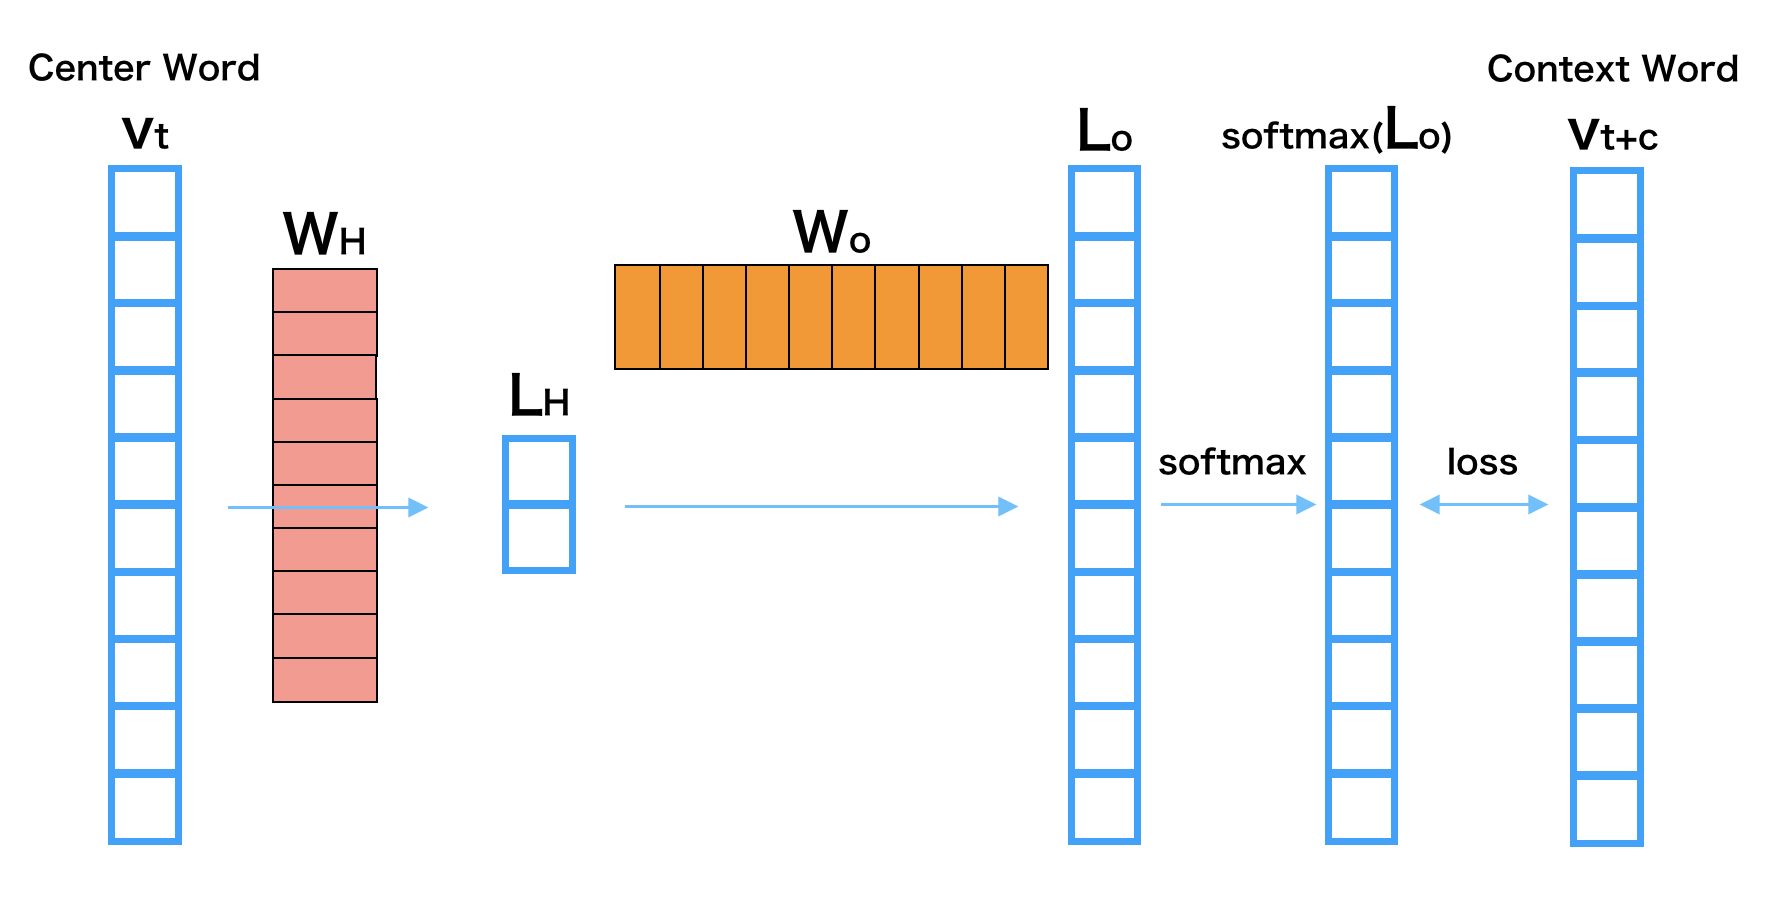
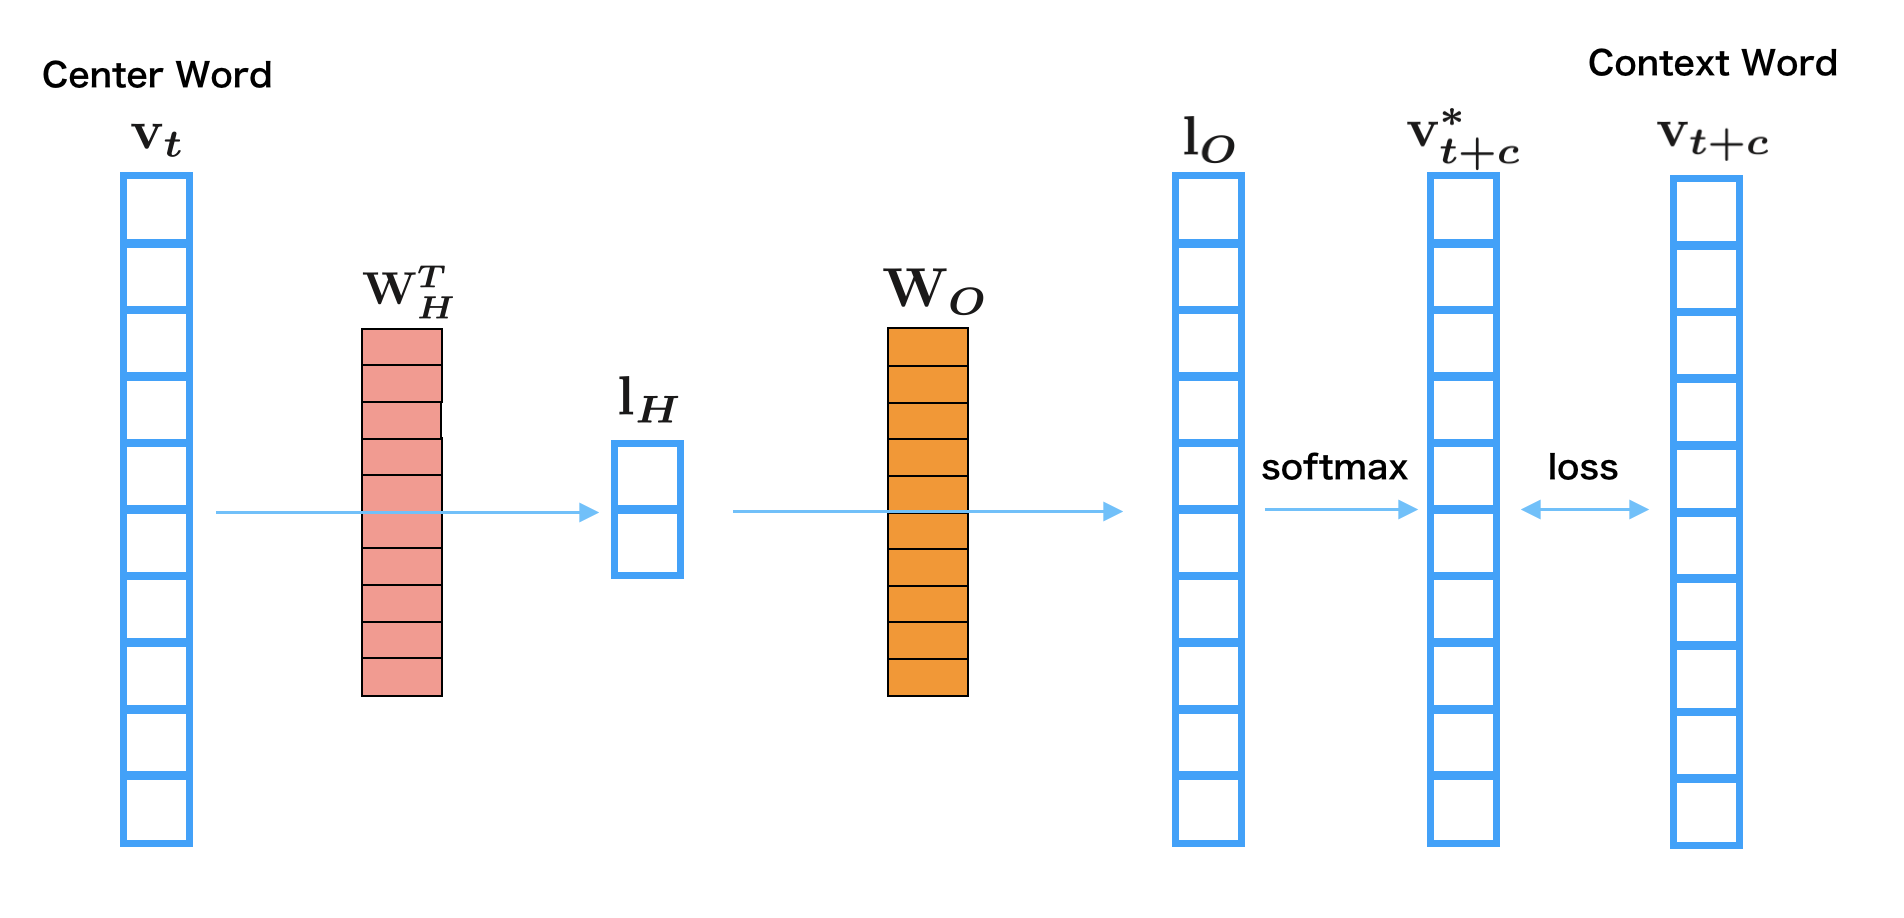
add equation

Changed region(s): [[0.0618, 0.1244, 0.927, 0.9644], [0.8343, 0.0311, 0.9888, 0.0933], [0.0, 0.0622, 0.1545, 0.0933]]

diff --git a/docs/source/tutorial/word2vec.rst b/docs/source/tutorial/word2vec.rst
@@ -46,13 +46,13 @@ built with two models, which are **Skip-gram** and **CBoW**.
 To explain the models with the figures below, we will use the following
 symbols.
 
-* :math:`N`: the size of vocabulary.
+* :math:`V`: the size of vocabulary.
 * :math:`D`: the size of embedding vector.
 * :math:`v_t`: Center Word. The shape is ``[N,]``.
 * :math:`v_{t+c}`: Context Word. The shape is ``[N,]``.
-* :math:`L_H`: Embedding vector converted from input.
+* :math:`l_H`: Embedding vector converted from input.
   The shape is ``[D,]``.
-* :math:`L_O`: Output layer. The shape is ``[N,]``.
+* :math:`l_O`: Output layer. The shape is ``[N,]``.
 * :math:`W_H`: Embedding matrix for the input.  The shape is ``[N, D]``.
 * :math:`W_O`: Embedding matrix for the output.  The shape is ``[D, N]``.
 
@@ -71,21 +71,38 @@ matrix for input :math:`W_H` becomes a word embedding of each word.
 
 .. image:: ../../image/word2vec/skipgram.png
 
+When you input the Center Word :math:`v_t` into the network,
+you can calculate :math:`v_{t+c}^*`.
+
 .. math::
-    l_H &= v_t^T W_H \\
-    l_O &= l_H^T W_O \\
-    \hat v_{t+c} &= \text{softmax}(l_O) \\
-    &= \frac{\exp(l_O)}{\sum_{n=1}^N \exp(l_O[n])} \\
-    p(w_i|v_t) &= \hat v_{t+c}[i] \\
-    p(v_{t+c}|v_t) &= \hat v_{t+c}^T v_{t+c}
+    l_H &= W_H v_t \\
+    l_O &= W_O l_H \\
+    v_{t+c}^* &= \text{softmax}(l_O) \\
+    &= \frac{\exp(l_O)}{\sum_{v=1}^V \exp(l_O[n])}
+
+Each element of :math:`v_{t+c}^*` is the probability that the :math:`i`-th word 
+:math:`w_i` in the vocabulary
+is considered as Context Words. So, the equation :math:`v_{t+c}^T v_{t+c}^*` calculates the
+probability :math:`p(v_{t+c}|v_t)`.
+
+.. math::
+    p(w_i|v_t) &= v_{t+c}^*[i] \\
+    p(v_{t+c}|v_t) &= v_{t+c}^T v_{t+c}^*
+
+The loss function for the center word and the context words
+:math:`\text{loss}(W_H, W_O|v_{t-C}, ..., v_t, ..., v_{t+C})` is,
 
 .. math::
     \text{loss}(W_H, W_O|v_{t-C}, ..., v_t, ..., v_{t+C}) &= \sum_{c=\{-C,...,C\}/\{0\}} \log(p(v_{t+c}|v_t)) \\
-    &= \sum_{c=\{-C,...,C\}/\{0\}} \log(\hat v_{t+c}^T v_{t+c})
+    &= \sum_{c=\{-C,...,C\}/\{0\}} \log(v_{t+c}^T v_{t+c}^*)
+
+Let the training dataset be
+:math:`\mathcal{D}=\{v_{t-C}^{(n)}, ..., v_t^{(n)}, ..., v_{t+C}^{(n)}\}_{n=1}^N`,
+the loss functions for dataset :math:`\text{Loss}(W_H, W_O|\mathcal{D})` is,
 
 .. math::
     \text{Loss}(W_H, W_O|\mathcal{D}) &= \sum_{\mathcal{D}} \text{loss}(W_H, W_O|v_{t-C}, ..., v_t, ..., v_{t+C}) \\
-    &= \sum_{\mathcal{D}} \sum_{c=\{-C,...,C\}/\{0\}} \log(\hat v_{t+c}^T v_{t+c})
+    &= \sum_{\mathcal{D}} \sum_{c=\{-C,...,C\}/\{0\}} \log(v_{t+c}^T v_{t+c}^*)
 
 2.2 Continuous Bag of Words (CBoW)
 -----------------------------------
@@ -95,6 +112,39 @@ This model learns to predict Center Word :math:`v_t` when Context Words
 of each word.
 
 .. image:: ../../image/word2vec/cbow.png
+
+When you input the Context Words :math:`v_{t+c}` into the network,
+you can calculate :math:`v_t^*`.
+
+.. math::
+    l_H &= \sum_{c=1}^C W_H v_{t+c} \\
+    l_O &= W_O l_H \\
+    v_t^* &= \text{softmax}(l_O) \\
+    &= \frac{\exp(l_O)}{\sum_{v=1}^V \exp(l_O[n])}
+
+Each element of :math:`v_t^*` is the probability that the :math:`i`-th word
+:math:`w_i` in the vocabulary
+is considered as Center Word. So, the equation :math:`v_t^T v_t^*` calculates the
+probability :math:`p(v_t|v_{t+c})`.
+
+.. math::
+    p(w_i|v_{t+c}) &= v_t^*[i] \\
+    p(v_t|v_{t+c}) &= v_t^T v_t^*
+
+The loss function for the center word and the context words
+:math:`\text{loss}(W_H, W_O|v_{t-C}, ..., v_t, ..., v_{t+C})` is,
+
+.. math::
+    \text{loss}(W_H, W_O|v_{t-C}, ..., v_t, ..., v_{t+C}) &= \sum_{c=\{-C,...,C\}/\{0\}} \log(p(v_t|v_{t+c})) \\
+    &= \sum_{c=\{-C,...,C\}/\{0\}} \log(v_t^T v_t^*)
+
+Let the training dataset be
+:math:`\mathcal{D}=\{v_{t-C}^{(n)}, ..., v_t^{(n)}, ..., v_{t+C}^{(n)}\}_{n=1}^N`,
+the loss functions for dataset :math:`\text{Loss}(W_H, W_O|\mathcal{D})` is,
+
+.. math::
+    \text{Loss}(W_H, W_O|\mathcal{D}) &= \sum_{\mathcal{D}} \text{loss}(W_H, W_O|v_{t-C}, ..., v_t, ..., v_{t+C}) \\
+    &= \sum_{\mathcal{D}} \sum_{c=\{-C,...,C\}/\{0\}} \log(v_t^T v_t^*)
 
 3. Details of Skip-gram
 ========================
